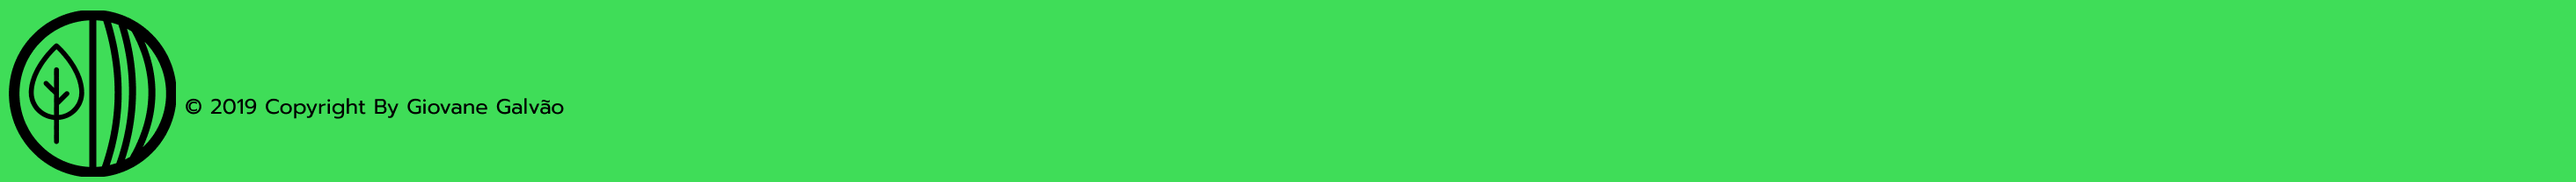
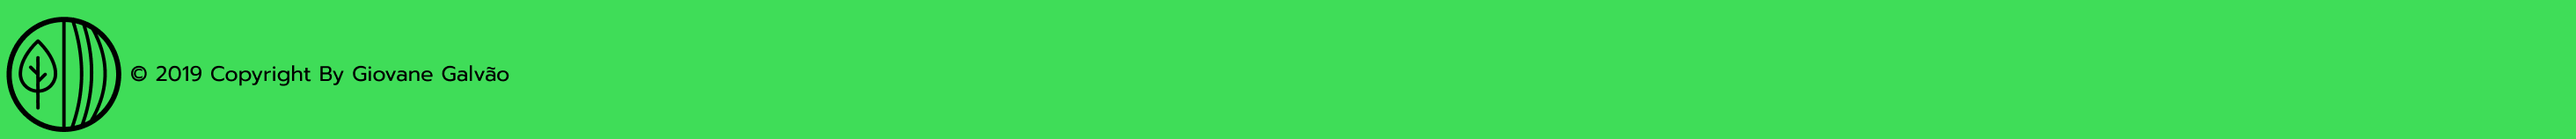
Test commit 10.1

Changed region(s): [[0.0, 0.0506, 0.2176, 0.9873]]

diff --git a/hortiprice/src/components/MenuItems/index.jsx b/hortiprice/src/components/MenuItems/index.jsx
@@ -2,7 +2,7 @@ import DropdownLinks from "../DropdownLinks"
 import { useState, useEffect, useRef } from "react";
 import './MenuItems.css'
 
-const MenuItems = ({items, depthLevel}) => {
+const MenuItems = ({items}) => {
     const [dropdown, setDropdown] = useState(false)
     let ref = useRef()
 

diff --git a/hortiprice/src/pages/Forms/LoginForm/LoginForm.css b/hortiprice/src/pages/Forms/LoginForm/LoginForm.css
@@ -8,7 +8,7 @@
 }
 
 .login-form form{
-    max-width: 80%;
+    max-width: 100%;
     background-color: #f2f2f2;
     border-radius: 20px;
     padding: 36px 64px;

diff --git a/hortiprice/src/components/Header/Header.css b/hortiprice/src/components/Header/Header.css
@@ -2,6 +2,7 @@
     background-color: #3FDD58;
     text-align: center;
     max-width: 100%;
+    display: flex;
 }
 
 
